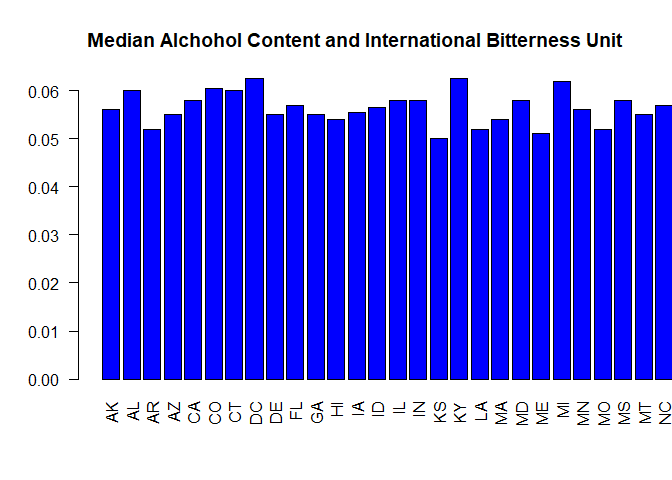
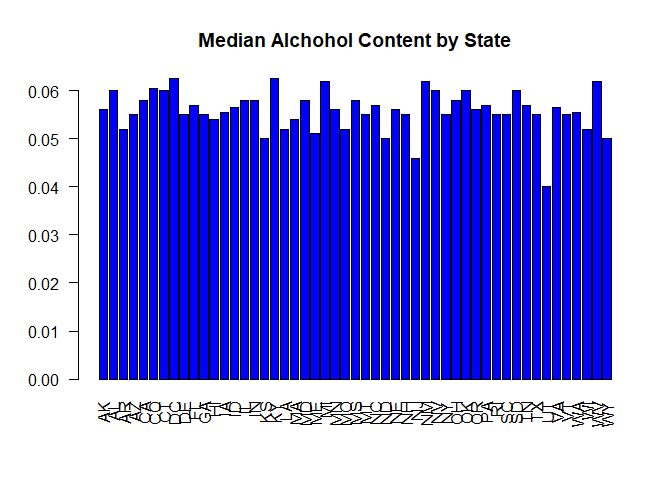
Finished with the code part.

Changed region(s): [[0.125, 0.1562, 1.0, 0.9062], [0.125, 0.0625, 0.9375, 0.125]]

diff --git a/MSDS_6306_DoingDataScience_Case_Study_01.html b/MSDS_6306_DoingDataScience_Case_Study_01.html
@@ -141,6 +141,21 @@ library(tidyverse)</code></pre>
 ## x tidyr::complete() masks RCurl::complete()
 ## x dplyr::filter()   masks stats::filter()
 ## x dplyr::lag()      masks stats::lag()</code></pre>
+<pre class="r"><code>library(plyr)</code></pre>
+<pre><code>## -------------------------------------------------------------------------</code></pre>
+<pre><code>## You have loaded plyr after dplyr - this is likely to cause problems.
+## If you need functions from both plyr and dplyr, please load plyr first, then dplyr:
+## library(plyr); library(dplyr)</code></pre>
+<pre><code>## -------------------------------------------------------------------------</code></pre>
+<pre><code>## 
+## Attaching package: 'plyr'</code></pre>
+<pre><code>## The following objects are masked from 'package:dplyr':
+## 
+##     arrange, count, desc, failwith, id, mutate, rename, summarise,
+##     summarize</code></pre>
+<pre><code>## The following object is masked from 'package:purrr':
+## 
+##     compact</code></pre>
 <div id="environment-information" class="section level2">
 <h2>Environment Information</h2>
 <pre class="r"><code>sessionInfo()</code></pre>
@@ -161,9 +176,10 @@ library(tidyverse)</code></pre>
 ## [1] stats     graphics  grDevices utils     datasets  methods   base     
 ## 
 ## other attached packages:
-##  [1] forcats_0.2.0   stringr_1.2.0   dplyr_0.7.4     purrr_0.2.4    
-##  [5] tidyr_0.7.2     tibble_1.4.2    tidyverse_1.2.1 RCurl_1.95-4.8 
-##  [9] bitops_1.0-6    repmis_0.5      readr_1.1.1     ggplot2_2.2.1  
+##  [1] plyr_1.8.4      forcats_0.2.0   stringr_1.2.0   dplyr_0.7.4    
+##  [5] purrr_0.2.4     tidyr_0.7.2     tibble_1.4.2    tidyverse_1.2.1
+##  [9] RCurl_1.95-4.8  bitops_1.0-6    repmis_0.5      readr_1.1.1    
+## [13] ggplot2_2.2.1  
 ## 
 ## loaded via a namespace (and not attached):
 ##  [1] reshape2_1.4.3      haven_1.1.1         lattice_0.20-35    
@@ -171,20 +187,19 @@ library(tidyverse)</code></pre>
 ##  [7] rlang_0.1.6         R.oo_1.21.0         pillar_1.1.0       
 ## [10] foreign_0.8-69      glue_1.2.0          R.utils_2.6.0      
 ## [13] modelr_0.1.1        readxl_1.0.0        bindrcpp_0.2       
-## [16] R.cache_0.12.0      plyr_1.8.4          bindr_0.1          
-## [19] munsell_0.4.3       gtable_0.2.0        cellranger_1.1.0   
-## [22] rvest_0.3.2         R.methodsS3_1.7.1   psych_1.7.8        
-## [25] evaluate_0.10.1     knitr_1.17          parallel_3.4.3     
-## [28] broom_0.4.3         Rcpp_0.12.14        scales_0.5.0       
-## [31] backports_1.1.2     formatR_1.5         jsonlite_1.5       
-## [34] mnormt_1.5-5        hms_0.4.0           digest_0.6.13      
-## [37] stringi_1.1.6       grid_3.4.3          rprojroot_1.3-1    
-## [40] cli_1.0.0           tools_3.4.3         magrittr_1.5       
-## [43] lazyeval_0.2.1      crayon_1.3.4        pkgconfig_2.0.1    
-## [46] xml2_1.2.0          data.table_1.10.4-3 lubridate_1.7.2    
-## [49] rstudioapi_0.7      assertthat_0.2.0    rmarkdown_1.8      
-## [52] httr_1.3.1          R6_2.2.2            nlme_3.1-131.1     
-## [55] compiler_3.4.3</code></pre>
+## [16] R.cache_0.12.0      bindr_0.1           munsell_0.4.3      
+## [19] gtable_0.2.0        cellranger_1.1.0    rvest_0.3.2        
+## [22] R.methodsS3_1.7.1   psych_1.7.8         evaluate_0.10.1    
+## [25] knitr_1.17          parallel_3.4.3      broom_0.4.3        
+## [28] Rcpp_0.12.14        scales_0.5.0        backports_1.1.2    
+## [31] formatR_1.5         jsonlite_1.5        mnormt_1.5-5       
+## [34] hms_0.4.0           digest_0.6.13       stringi_1.1.6      
+## [37] grid_3.4.3          rprojroot_1.3-1     cli_1.0.0          
+## [40] tools_3.4.3         magrittr_1.5        lazyeval_0.2.1     
+## [43] crayon_1.3.4        pkgconfig_2.0.1     xml2_1.2.0         
+## [46] data.table_1.10.4-3 lubridate_1.7.2     rstudioapi_0.7     
+## [49] assertthat_0.2.0    rmarkdown_1.8       httr_1.3.1         
+## [52] R6_2.2.2            nlme_3.1-131.1      compiler_3.4.3</code></pre>
 </div>
 <div id="brewery-data-analysis" class="section level2">
 <h2>Brewery Data Analysis</h2>
@@ -366,21 +381,49 @@ NASummary</code></pre>
 <pre class="r"><code>getMedians &lt;- function(x) {
     c(median = median(x, na.rm = TRUE))
 }
-Medians &lt;- as.data.frame(tapply(Stage2$ABV, Stage2$State, getMedians))
+ABVMedians &lt;- as.data.frame(tapply(Stage2$ABV, Stage2$State, getMedians))
 
 par(las = 2)
-barplot(Medians[, 1], main = &quot;Median Alchohol Content and International Bitterness Unit&quot;, 
-    horiz = FALSE, col = 4, xlim = c(0, 30))</code></pre>
[1 lines of base64/hex data omitted]
+barplot(ABVMedians[, 1], main = &quot;Median Alchohol Content by State&quot;, horiz = FALSE, 
+    col = 4)</code></pre>
[1 lines of base64/hex data omitted]
+<pre class="r"><code>IBUMedians &lt;- as.data.frame(tapply(Stage2$IBU, Stage2$State, getMedians))
+
+par(las = 2)
+barplot(IBUMedians[, 1], main = &quot;International Bitterness Units by State&quot;, horiz = FALSE, 
+    col = 4)</code></pre>
[1 lines of base64/hex data omitted]
 </div>
 <div id="which-state-has-the-maximum-alcoholic-abv-beer-which-state-has-the-most-bitter-ibu-beer" class="section level3">
 <h3>5. Which state has the maximum alcoholic (ABV) beer? Which state has the most bitter (IBU) beer?</h3>
+<pre class="r"><code>MaxABVState &lt;- ddply(Stage2, .(State), summarise, MaxABVState = max(ABV, na.rm = TRUE))
+MaxABVState &lt;- MaxABVState[order(MaxABVState$MaxABVState), ]
+head(MaxABVState, 1)</code></pre>
+<pre><code>##   State MaxABVState
+## 9    DE       0.055</code></pre>
+<pre class="r"><code>summary(Stage2$ABV)</code></pre>
+<pre><code>##    Min. 1st Qu.  Median    Mean 3rd Qu.    Max.    NA's 
+## 0.00100 0.05000 0.05600 0.05977 0.06700 0.12800      62</code></pre>
+<pre class="r"><code>MaxIBUState &lt;- ddply(Stage2, .(State), summarise, MaxIBUState = max(as.double(Stage2$IBU), 
+    na.rm = TRUE))
+MaxIBUState &lt;- MaxIBUState[order(MaxIBUState$MaxIBUState), ]
+head(MaxIBUState, 1)</code></pre>
+<pre><code>##   State MaxIBUState
+## 1    AK         138</code></pre>
 </div>
 <div id="summary-statistics-for-the-abv-variable." class="section level3">
 <h3>6. Summary statistics for the ABV variable.</h3>
+<pre class="r"><code>summary(Stage2$ABV)</code></pre>
+<pre><code>##    Min. 1st Qu.  Median    Mean 3rd Qu.    Max.    NA's 
+## 0.00100 0.05000 0.05600 0.05977 0.06700 0.12800      62</code></pre>
 </div>
 <div id="is-there-an-apparent-relationship-between-the-bitterness-of-the-beer-and-its-alcoholic-content-draw-a-scatter-plot.-you-are-welcome-to-use-the-ggplot2-library-for-graphs.-please-ignore-missing-values-in-your-analysis.-make-your-best-judgment-of-a-relationship-and-explain-your-answer." class="section level3">
 <h3>7. Is there an apparent relationship between the bitterness of the beer and its alcoholic content? Draw a scatter plot. You are welcome to use the ggplot2 library for graphs. Please ignore missing values in your analysis. Make your best judgment of a relationship and EXPLAIN your answer.</h3>
+<pre class="r"><code>p &lt;- ggplot(Stage2, aes(Stage2$ABV, Stage2$IBU))
+# A basic scatter plot
+p + geom_point(size = 1)</code></pre>
+<pre><code>## Warning: Removed 1005 rows containing missing values (geom_point).</code></pre>
[1 lines of base64/hex data omitted]
 <blockquote>
 <p>Formatting Samples</p>
 </blockquote>

diff --git a/MSDS_6306_DoingDataScience_Case_Study_01.md b/MSDS_6306_DoingDataScience_Case_Study_01.md
@@ -42,6 +42,42 @@ library(tidyverse)
 ## x dplyr::filter()   masks stats::filter()
 ## x dplyr::lag()      masks stats::lag()
 ```
+
+```r
+library(plyr)
+```
+
+```
+## -------------------------------------------------------------------------
+```
+
+```
+## You have loaded plyr after dplyr - this is likely to cause problems.
+## If you need functions from both plyr and dplyr, please load plyr first, then dplyr:
+## library(plyr); library(dplyr)
+```
+
+```
+## -------------------------------------------------------------------------
+```
+
+```
+## 
+## Attaching package: 'plyr'
+```
+
+```
+## The following objects are masked from 'package:dplyr':
+## 
+##     arrange, count, desc, failwith, id, mutate, rename, summarise,
+##     summarize
+```
+
+```
+## The following object is masked from 'package:purrr':
+## 
+##     compact
+```
 ## Environment Information
 
 ```r
@@ -66,9 +102,10 @@ sessionInfo()
 ## [1] stats     graphics  grDevices utils     datasets  methods   base     
 ## 
 ## other attached packages:
-##  [1] forcats_0.2.0   stringr_1.2.0   dplyr_0.7.4     purrr_0.2.4    
-##  [5] tidyr_0.7.2     tibble_1.4.2    tidyverse_1.2.1 RCurl_1.95-4.8 
-##  [9] bitops_1.0-6    repmis_0.5      readr_1.1.1     ggplot2_2.2.1  
+##  [1] plyr_1.8.4      forcats_0.2.0   stringr_1.2.0   dplyr_0.7.4    
+##  [5] purrr_0.2.4     tidyr_0.7.2     tibble_1.4.2    tidyverse_1.2.1
+##  [9] RCurl_1.95-4.8  bitops_1.0-6    repmis_0.5      readr_1.1.1    
+## [13] ggplot2_2.2.1  
 ## 
 ## loaded via a namespace (and not attached):
 ##  [1] reshape2_1.4.3      haven_1.1.1         lattice_0.20-35    
@@ -76,20 +113,19 @@ sessionInfo()
 ##  [7] rlang_0.1.6         R.oo_1.21.0         pillar_1.1.0       
 ## [10] foreign_0.8-69      glue_1.2.0          R.utils_2.6.0      
 ## [13] modelr_0.1.1        readxl_1.0.0        bindrcpp_0.2       
-## [16] R.cache_0.12.0      plyr_1.8.4          bindr_0.1          
-## [19] munsell_0.4.3       gtable_0.2.0        cellranger_1.1.0   
-## [22] rvest_0.3.2         R.methodsS3_1.7.1   psych_1.7.8        
-## [25] evaluate_0.10.1     knitr_1.17          parallel_3.4.3     
-## [28] broom_0.4.3         Rcpp_0.12.14        scales_0.5.0       
-## [31] backports_1.1.2     formatR_1.5         jsonlite_1.5       
-## [34] mnormt_1.5-5        hms_0.4.0           digest_0.6.13      
-## [37] stringi_1.1.6       grid_3.4.3          rprojroot_1.3-1    
-## [40] cli_1.0.0           tools_3.4.3         magrittr_1.5       
-## [43] lazyeval_0.2.1      crayon_1.3.4        pkgconfig_2.0.1    
-## [46] xml2_1.2.0          data.table_1.10.4-3 lubridate_1.7.2    
-## [49] rstudioapi_0.7      assertthat_0.2.0    rmarkdown_1.8      
-## [52] httr_1.3.1          R6_2.2.2            nlme_3.1-131.1     
-## [55] compiler_3.4.3
+## [16] R.cache_0.12.0      bindr_0.1           munsell_0.4.3      
+## [19] gtable_0.2.0        cellranger_1.1.0    rvest_0.3.2        
+## [22] R.methodsS3_1.7.1   psych_1.7.8         evaluate_0.10.1    
+## [25] knitr_1.17          parallel_3.4.3      broom_0.4.3        
+## [28] Rcpp_0.12.14        scales_0.5.0        backports_1.1.2    
+## [31] formatR_1.5         jsonlite_1.5        mnormt_1.5-5       
+## [34] hms_0.4.0           digest_0.6.13       stringi_1.1.6      
+## [37] grid_3.4.3          rprojroot_1.3-1     cli_1.0.0          
+## [40] tools_3.4.3         magrittr_1.5        lazyeval_0.2.1     
+## [43] crayon_1.3.4        pkgconfig_2.0.1     xml2_1.2.0         
+## [46] data.table_1.10.4-3 lubridate_1.7.2     rstudioapi_0.7     
+## [49] assertthat_0.2.0    rmarkdown_1.8       httr_1.3.1         
+## [52] R6_2.2.2            nlme_3.1-131.1      compiler_3.4.3
 ```
 ## Brewery Data Analysis
 
@@ -315,28 +351,83 @@ NASummary
 getMedians <- function(x) {
     c(median = median(x, na.rm = TRUE))
 }
-Medians <- as.data.frame(tapply(Stage2$ABV, Stage2$State, getMedians))
+ABVMedians <- as.data.frame(tapply(Stage2$ABV, Stage2$State, getMedians))
 
 par(las = 2)
-barplot(Medians[, 1], main = "Median Alchohol Content and International Bitterness Unit", 
-    horiz = FALSE, col = 4, xlim = c(0, 30))
+barplot(ABVMedians[, 1], main = "Median Alchohol Content by State", horiz = FALSE, 
+    col = 4)
 ```
 
 ![](MSDS_6306_DoingDataScience_Case_Study_01_files/figure-html/unnamed-chunk-10-1.png)<!-- -->
 
+```r
+IBUMedians <- as.data.frame(tapply(Stage2$IBU, Stage2$State, getMedians))
+
+par(las = 2)
+barplot(IBUMedians[, 1], main = "International Bitterness Units by State", horiz = FALSE, 
+    col = 4)
+```
+
+![](MSDS_6306_DoingDataScience_Case_Study_01_files/figure-html/unnamed-chunk-11-1.png)<!-- -->
+
 ###5. Which state has the maximum alcoholic (ABV) beer? Which state has the most bitter (IBU) beer?
+
+```r
+MaxABVState <- ddply(Stage2, .(State), summarise, MaxABVState = max(ABV, na.rm = TRUE))
+MaxABVState <- MaxABVState[order(MaxABVState$MaxABVState), ]
+head(MaxABVState, 1)
+```
+
+```
+##   State MaxABVState
+## 9    DE       0.055
+```
+
+```r
+summary(Stage2$ABV)
+```
+
+```
+##    Min. 1st Qu.  Median    Mean 3rd Qu.    Max.    NA's 
+## 0.00100 0.05000 0.05600 0.05977 0.06700 0.12800      62
+```
+
+```r
+MaxIBUState <- ddply(Stage2, .(State), summarise, MaxIBUState = max(as.double(Stage2$IBU), 
+    na.rm = TRUE))
+MaxIBUState <- MaxIBUState[order(MaxIBUState$MaxIBUState), ]
+head(MaxIBUState, 1)
+```
+
+```
+##   State MaxIBUState
+## 1    AK         138
+```
 
 ###6. Summary statistics for the ABV variable.
 
+```r
+summary(Stage2$ABV)
+```
+
+```
+##    Min. 1st Qu.  Median    Mean 3rd Qu.    Max.    NA's 
+## 0.00100 0.05000 0.05600 0.05977 0.06700 0.12800      62
+```
+
 ###7. Is there an apparent relationship between the bitterness of the beer and its alcoholic content? Draw a scatter plot. You are welcome to use the ggplot2 library for graphs. Please ignore missing values in your analysis. Make your best judgment of a relationship and EXPLAIN your answer.
 
+```r
+p <- ggplot(Stage2, aes(Stage2$ABV, Stage2$IBU))
+# A basic scatter plot
+p + geom_point(size = 1)
+```
 
+```
+## Warning: Removed 1005 rows containing missing values (geom_point).
+```
 
-
-
-
-
-
+![](MSDS_6306_DoingDataScience_Case_Study_01_files/figure-html/unnamed-chunk-14-1.png)<!-- -->
 
 >Formatting Samples  
 
